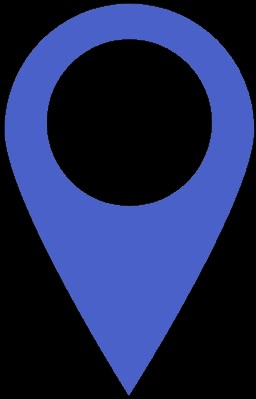
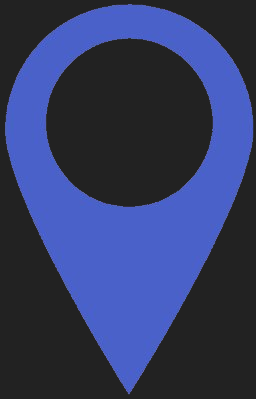
changed bacground color

diff --git a/ProjectFrontEnd/portfolio/elaqe.css b/ProjectFrontEnd/portfolio/elaqe.css
@@ -9,8 +9,8 @@ body{
     font-family: 'Hammersmith One', sans-serif;
 }
 .main{
-    max-width: 94%;
-    background-color: black;
+    width: 94%;
+    background-color: #222222;
     border-radius: 35px;
     margin:3% auto;
     padding: 40px 70px 60px 70px;
@@ -58,12 +58,14 @@ header{
 /* header */
 /* content */
 .contact-head{
-    position: relative;
+    /* position: absolute; */
     color:white;
     width: 100%;
     height:183px;
     padding:65px 70px;
     border-bottom: 1px solid rgba(167, 164, 175, 0.747);
+    /* margin-right:-70px; */
+    /* margin-left:-70px; */
 }
 .contact-content{
     width: 100%;
@@ -146,7 +148,7 @@ form{
 }
 .column-left div input{
     width:286px;
-    background-color:black;
+    background-color:#222222;
     padding:10px 25px 10px 12px;
     border: 2px solid rgb(109, 107, 107);
     border-radius:5px;
@@ -163,7 +165,7 @@ form{
 .column-right #text-form{
     width: 100%;
      line-height: 1.75em;
-     background-color: black;
+     background-color: #222222;
      border: 2px solid rgb(109, 107, 107);
      border-radius:5px;
      color: white;
@@ -181,7 +183,7 @@ form{
     width: 163.1px;
     height: 39px;
     padding:11.2px 29.4px 11.2px 29.4px;
-    background-color: black;
+    background-color: #222222;
     border: 2px solid #007ced;
     border-radius: 30px;
     color: white;

diff --git a/ProjectFrontEnd/portfolio/anasehife.css b/ProjectFrontEnd/portfolio/anasehife.css
@@ -9,8 +9,9 @@ body{
     font-family: 'Hammersmith One', sans-serif;
 }
 .main{
-    max-width: 94%;
-    background-color: black;
+    width: 94%;
+    max-width: 1200px;
+    background-color:#222222;
     border-radius: 35px;
     margin:3% auto;
     padding: 40px 70px 60px 70px;
@@ -20,7 +21,7 @@ header{
     display: flex;
     justify-content: space-between;
     align-items: center;
-    border-bottom: 1px solid rgba(167, 164, 175, 0.747);
+   
 }
 .menu ul{
     display: flex;
@@ -66,19 +67,21 @@ header{
      align-items: center;
 }
 .picture{
-    width: 30%;
+    width: 32%;
     padding-right: 15px;
     position: relative;
  }
  .picture img{
-     max-width: 100%;
+     border-radius: 1000px;
+      width: 100%;
      height: 300px;
-     box-shadow:-2px -2px 10px 10px white;
-    transition:all 2s linear;
+     transition:  2s linear;
+     border: 18px solid #444444c4;
 
  }
  .picture:hover img{
      transform: scale(1.1);
+     
  }
 .text{
     width: 40%;
